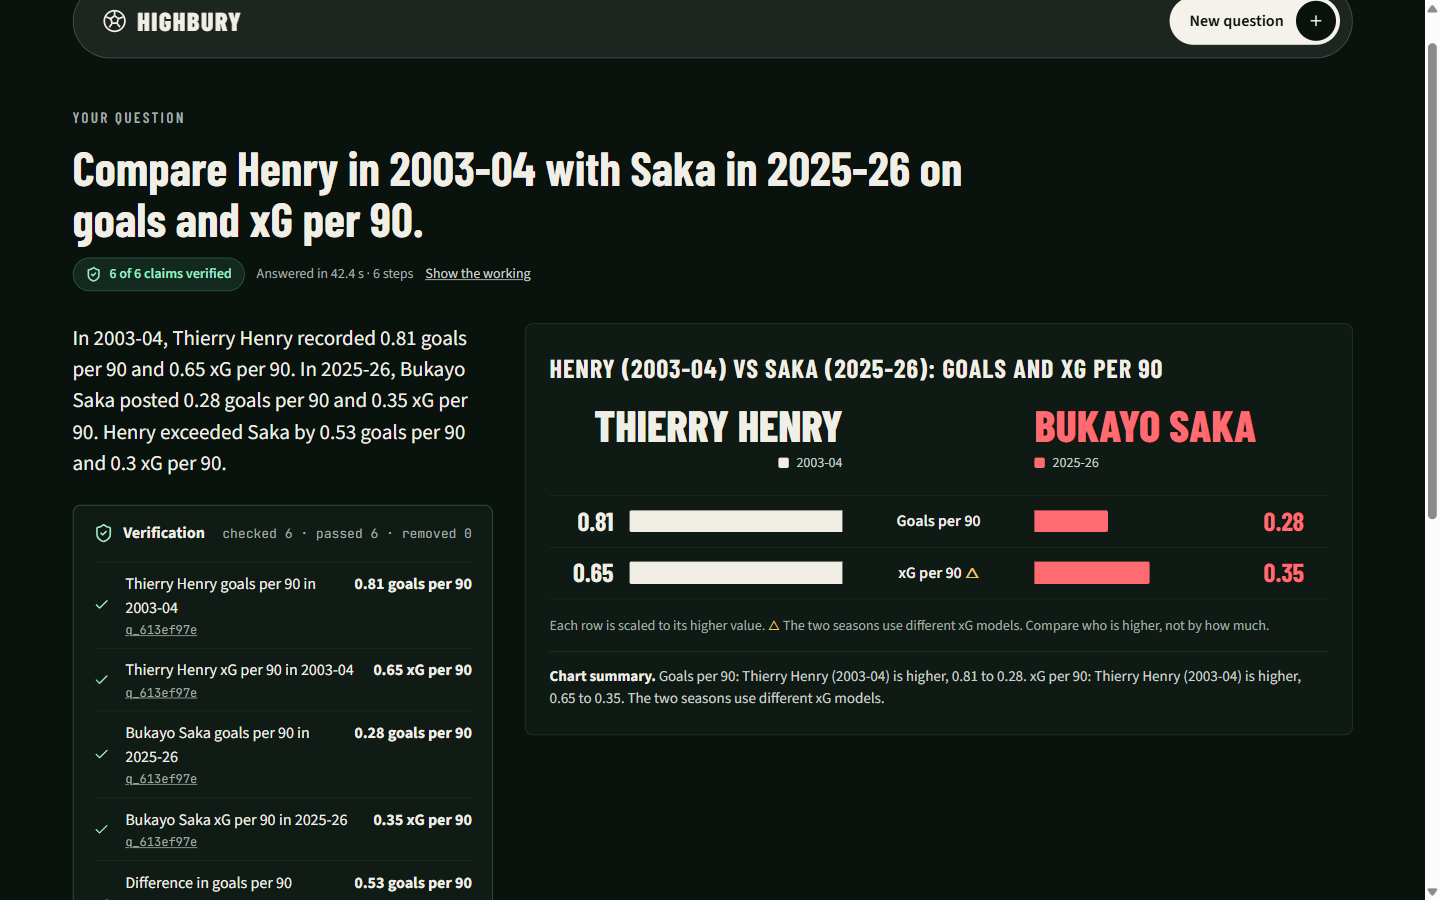
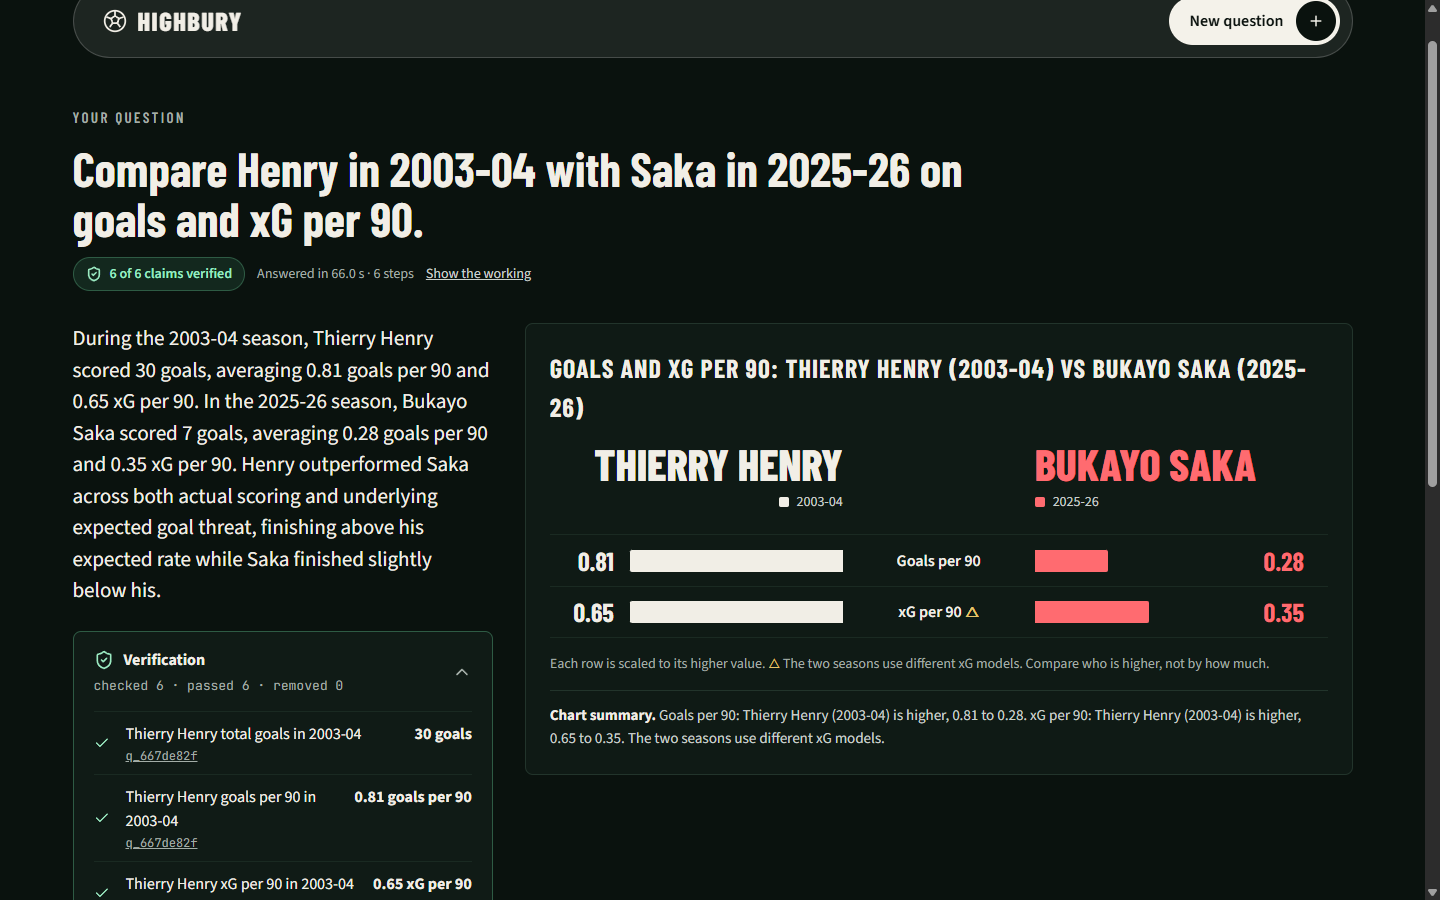
docs: bring the README in step with the project

diff --git a/README.md b/README.md
@@ -2,7 +2,7 @@
 
 **An AI football analyst that shows its receipts.** Ask a question in plain
 English about Arsenal's 2003-04 Invincibles or the 2025-26 side. An agent
-queries a curated Postgres database, draws an interactive pitch chart, and checks
+queries a curated Postgres database, draws an interactive chart, and checks
 every number against the data before you see it. When the data cannot answer,
 it says so.
 
@@ -24,8 +24,8 @@ Every answer shows:
 - **A verification badge**, such as "6 of 6 claims verified". Each claim links
   to the exact query that produced it.
 - **The working**: the tools the agent called and the SQL it ran.
-- **A chart**: a shot map, comparison bars, or a pass network, with a text
-  summary under it.
+- **A chart**: a shot map, comparison bars, a pass network, an xG timeline of
+  one match, or a points-pace line, with a text summary under it.
 - **Caveats** where they matter. For example, the two seasons use different xG
   models, so the comparison says so.
 
@@ -33,11 +33,11 @@ Every answer shows:
 
 | Capability | How it works |
 | --- | --- |
-| Answers from real data | An agent plans the question and calls five tools: the data catalog, the schema, a player resolver, a SQL runner, and a chart builder. |
+| Answers from real data | An agent plans the question and calls five tools: the data catalog, the schema, a player resolver, a SQL runner, and a chart builder. The data covers shots, passes, and lineups, all 380 league matches of both seasons with team stats and the table, and FPL player data for 2025-26. |
 | Does not invent numbers | A verifier written in plain code, not another LLM, checks each claimed number against the rows of the query it cites. Unsupported claims are removed. |
 | Knows what it does not know | The agent reads a data catalog first. Ask for Saka's 2025-26 pass map and it says there is no pass data for that season, then offers his shot map. |
 | Stays in scope | "Who will win the Champions League?" is declined with no database call. |
-| Remembers the conversation | Follow-ups such as "Only the ones inside the box." refine the previous answer. |
+| Remembers the conversation | Follow-ups such as "Only the ones inside the box." refine the previous answer. A conversation ends after 20 turns. |
 | Cannot change the data | Two independent locks: a SQL parser that allows one `SELECT`, and a read-only database role with a 5-second timeout and a 500-row cap. |
 | Measured, not guessed | 24 golden questions with hand-written SQL answers, run on two models. Flash scored 24 of 24, Flash-Lite 23 of 24. |
 
@@ -55,7 +55,7 @@ both runs, and it failed the conversation follow-up 2 times in 9 earlier tries.
 Flash has failed neither, so production stays on Flash. The full reasoning is in
 the results file.
 
-The suite has **713 Python tests** and **209 web unit tests**.
+The suite has **942 Python tests** and **263 web unit tests**.
 
 ## Architecture
 
@@ -67,11 +67,12 @@ flowchart LR
     T -- "SELECT only" --> DB[("Postgres<br/>read-only role")]
     A -- answer and claims --> V["Claim verifier<br/>plain code"]
     V -- "checked answer, streamed (SSE)" --> B
-    S["StatsBomb 2003-04<br/>Understat 2025-26"] -. offline ingest .-> DB
+    S["StatsBomb, Understat,<br/>football-data.co.uk, FPL"] -. offline ingest .-> DB
 ```
 
 1. The browser sends the question and receives a stream of events: each tool
-   step as it runs, then the final answer.
+   step as it runs, then the final answer. A ping event keeps the stream open
+   through the load balancer while the agent is quiet.
 2. The agent calls the tools in-process. The same functions are also served as
    an **MCP server** over stdio, so any MCP client can use them.
 3. Before the answer is sent, the verifier matches each claimed value to a cell
@@ -93,8 +94,13 @@ flowchart LR
   wrong joins, less flexibility.
 - **Model as configuration.** One environment variable names the model, so the
   evals compare models on the same questions.
-- **Fewer sources, honest catalog.** Two open sources, one per season, and a
-  catalog that says what each season lacks.
+- **Few sources, honest catalog.** Four open sources, and a catalog that says
+  what each season lacks. Each source is cross-checked against another where it
+  can be: the football-data scores against the published tables, and the FPL
+  goals against Understat's. A load stops on any difference.
+- **One identity for every player and team.** A resolver links each source
+  record to one canonical ID. A hand-written `overrides.yaml` always wins, and a
+  link is made only when it is certain.
 
 Each feature has a study document in [`design-docs/`](design-docs/README.md)
 covering its design, run-time flow, and trade-offs.
@@ -134,7 +140,9 @@ uv sync --all-packages               # Python workspace
 uv run --env-file .env python -m ingest.migrate      # tables, views, roles
 uv run --env-file .env python -m ingest.statsbomb    # load 2003-04
 uv run --env-file .env python -m ingest.understat    # load 2025-26
-uv run --env-file .env python -m ingest.curated      # aliases and data catalog
+uv run --env-file .env python -m ingest.footballdata # all 380 league matches of both seasons
+uv run --env-file .env python -m ingest.fpl          # FPL player data, 2025-26
+uv run --env-file .env python -m ingest.curated      # nicknames and data catalog
 ```
 
 Ask from the terminal (each question calls the model and costs a little):
@@ -166,7 +174,7 @@ server, and the deploy.
 | --- | --- |
 | `apps/web` | The Next.js web app |
 | `services/analyst` | The agent, the five tools, the verifier, the API, and the MCP server |
-| `ingest` | Offline loaders for StatsBomb and Understat |
+| `ingest` | Offline loaders for StatsBomb, Understat, football-data.co.uk, and FPL, and the entity resolver |
 | `db/migrations` | SQL schema, views, and roles |
 | `evals` | Golden questions, model list, and results |
 | `deploy/ecs` | API service config for AWS ECS (names only, no secrets) |
@@ -178,6 +186,15 @@ server, and the deploy.
 **Unofficial fan project.** Not affiliated with or endorsed by Arsenal FC or the
 Premier League. No club crests, logos, or player photos are used.
 
-Data: [StatsBomb Open Data](https://github.com/statsbomb/open-data) for 2003-04
-and [Understat](https://understat.com) for 2025-26. Raw data is not
-redistributed in this repository; the loaders download and cache it locally.
+Data:
+
+- [StatsBomb Open Data](https://github.com/statsbomb/open-data) for the 2003-04
+  events and shots.
+- [Understat](https://understat.com) for the 2025-26 shots.
+- [football-data.co.uk](https://www.football-data.co.uk) for every league match
+  and team match stats of both seasons.
+- The [Fantasy Premier League archive](https://github.com/vaastav/Fantasy-Premier-League)
+  of vaastav for the 2025-26 per-match player data.
+
+Raw data is not redistributed in this repository; the loaders download and cache
+it locally.
